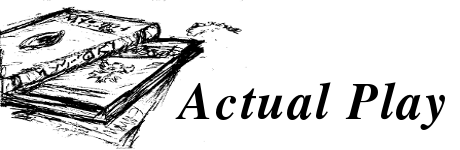
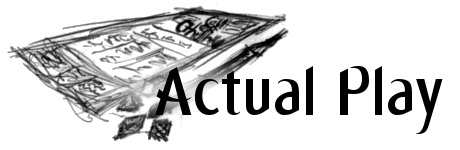
design changes

diff --git a/static/css/main.css b/static/css/main.css
@@ -121,7 +121,7 @@ a:visited, a:active {
 header {
     background: #fff;
     width: 100%;
-    height: 76px;
+    height: 105px;
     position: fixed;
     top: 0;
     left: 0;
@@ -130,10 +130,11 @@ header {
 }
 
 #logo {
-    margin: 0;
     float: left;
-    width: 400px;
-    height: 76px;
+    margin-left: 5px;
+    margin-top: 5px;
+    width: 320px;
+    height: 100px;
     background: url(../images/logo.png) no-repeat center;
     display: block;
 }
@@ -141,7 +142,7 @@ header {
 section {
     position: relative;
     margin: 0 auto 40px;
-    max-width: 980px;
+    max-width: 1020px;
     padding: 20px;
 }
 
@@ -151,7 +152,7 @@ section {
     
 nav {
     float: right;
-    padding: 20px;
+    padding: 40px 0 0 0;
 }
 
 .menu-icon {
@@ -198,14 +199,16 @@ li {
 .section-header {
     font-size: 52px;
     font-weight: bold;
+    vertical-align: top;
 }
 
 /* ==========================================================================
     Content
    ========================================================================== */
 .content {
-    width: 100%;
+    width: 75%;
     padding: 10px;
+    display: inline-block;
 }
 
 .content-list {
@@ -216,9 +219,26 @@ li {
 
 .content-list-item {
     display: inline-block;
-    width: 462px;
+    width: 45%;
     background: #fff;
     vertical-align: top;
+}
+
+.library-stacks {
+    padding: 3px 10px;
+    border-right: 1px solid #000;
+    line-height: 12px;
+}
+
+.sidebar {
+    display: inline-block;
+    width: 20%;
+    vertical-align: top;
+}
+
+.sidebar-list {
+    margin: 0;
+    padding: 0;
 }
 
 /* ==========================================================================
@@ -276,8 +296,9 @@ footer {
 
 .section-heading {
     position: relative;
-    width: 450px;
-    margin: 80px 0 20px;
+    width: 1020px;
+    margin: 170px 0 20px;
+    border-bottom: 3px solid #eee;
 }
 
 .section-heading img {

diff --git a/css/main.css b/css/main.css
@@ -121,7 +121,7 @@ a:visited, a:active {
 header {
     background: #fff;
     width: 100%;
-    height: 76px;
+    height: 105px;
     position: fixed;
     top: 0;
     left: 0;
@@ -130,10 +130,11 @@ header {
 }
 
 #logo {
-    margin: 0;
     float: left;
-    width: 400px;
-    height: 76px;
+    margin-left: 5px;
+    margin-top: 5px;
+    width: 320px;
+    height: 100px;
     background: url(../images/logo.png) no-repeat center;
     display: block;
 }
@@ -151,7 +152,7 @@ section {
     
 nav {
     float: right;
-    padding: 20px;
+    padding: 40px 0 0 0;
 }
 
 .menu-icon {
@@ -209,11 +210,16 @@ li {
 }
 
 .content-list {
-    background: #eee;
+    background: #fff;
+    margin: 0;
+    padding: 5px;
 }
 
 .content-list-item {
-    width: 300px;
+    display: inline-block;
+    width: 462px;
+    background: #fff;
+    vertical-align: top;
 }
 
 /* ==========================================================================
@@ -271,8 +277,9 @@ footer {
 
 .section-heading {
     position: relative;
-    width: 450px;
-    margin: 80px 0 20px;
+    width: 1020px;
+    margin: 170px 0 20px;
+    border-bottom: 3px solid #eee;
 }
 
 .section-heading img {

diff --git a/templates/app/sidebar.html b/templates/app/sidebar.html
@@ -1,4 +1,3 @@
-{% block sidebar %}
 	<div class="sidebar-block">
 		<h2>Search</h2>
 		<ul class="sidebar-list">
@@ -8,5 +7,28 @@
 				</form>
 			</li>
 		</ul>
+		<h2>Recent</h2>
+		<ul class="sidebar-list">
+		{% for item in items_recent %}
+			<li class="sidebar-list-item">
+				<a href="{{ item.get_url }}">{{ item.title }}</a>
+			</li>
+		{% endfor %}
+		</ul>		
+		<h2>Popular</h2>
+		<ul class="sidebar-list">
+		{% for item in items_popular %}
+			<li class="sidebar-list-item">
+				<a href="{{ item.get_url }}">{{ item.title }}</a>
+			</li>
+		{% endfor %}
+		</ul>
+		<h2>Links</h2>
+		<ul class="sidebar-list">
+		{% for link in links %}
+			<li class="sidebar-list-item">
+				<a href="{{ link.get_url }}">{{ link.title }}</a>
+			</li>
+		{% endfor %}
+		</ul>
 	</div>
-{% endblock %}

diff --git a/templates/app/index.html b/templates/app/index.html
@@ -1,10 +1,14 @@
 {% extends "base.html" %}
+{% load staticfiles %}
 
 {% block title %}{{ site.title }}{% endblock %}
 {% block description %}{{ site.description }}{% endblock %}
 
 {% block content %}
 <div class="page">
+	<div class="section-heading">
+		<img src="{% static "images/" %}{{ section.name }}.png" />
+	</div>
 	<div class="content">
 		<ul class="content-list">
 			<li class="content-list-item">
@@ -46,7 +50,7 @@
 		</ul>
 	</div>
 	<div class="sidebar">
-		{% block sidebar %}{% endblock %}
+		{% include 'sidebar.html' %}
 	</div>
 </div>
 {% endblock %}

diff --git a/templates/library/items.html b/templates/library/items.html
@@ -1,11 +1,17 @@
 {% extends 'base.html' %}
+{% load staticfiles %}
 
 {% block title %}{{ stack.name }}{% endblock %}
 {% block description %}{{ stack.tagline }}{% endblock %}
 
 {% block content %}
+<div class="section-heading">
+	<img src="{% static "images/" %}{{ section.name }}.png" />
+</div>
 <div class="content">
-	<h1>{{ stack.name }}</h1>
+	{% for stack in stacks %}
+		<span class="library-stacks"><a href="/library/{{ stack.name|lower }}">{{ stack.name }}</a></span>
+	{% endfor %}
 	{% for item in items %}
 		<article>
 			<div class="center">

diff --git a/templates/library/item.html b/templates/library/item.html
@@ -1,10 +1,17 @@
 {% extends 'base.html' %}
+{% load staticfiles %}
 
 {% block title %}{{ item.title }}{% endblock %}
 {% block description %}{{ item.descdription }}{% endblock %}
 
 {% block content %}
+<div class="section-heading">
+	<img src="{% static "images/" %}{{ section.name }}.png" />
+</div>
 <div class="content">
+	{% for stack in stacks %}
+		<span class="library-stacks"><a href="/library/{{ stack.name|lower }}">{{ stack.name }}</a></span>
+	{% endfor %}
 	<article>
 		<div class="center">
 			<h2>{{ item.name }}</h2>

diff --git a/templates/library/index.html b/templates/library/index.html
@@ -1,11 +1,14 @@
 {% extends 'base.html' %}
+{% load staticfiles %}
 
 {% block title %}The Library{% endblock %}
 {% block description %}The cornerstone of any good investication is research, and where better to research than the library.{% endblock %}
 
 {% block content %}
+<div class="section-heading">
+	<img src="{% static "images/" %}{{ section.name }}.png" />
+</div>
 <div class="content">
-	<h1>The Stacks</h1>
 	<ul class="content-list">
 	{% for stack in stacks %}
 		<li class="content-list-item">

diff --git a/templates/blog/index.html b/templates/blog/index.html
@@ -1,9 +1,12 @@
 {% extends "base.html" %}
-
+{% load staticfiles %}
 {% block title %}Non Human User Blog{% endblock %}
 {% block description %}Stories and opinions about Cthulhu Mythos related subjects and the Call of Cthulhu role playing game{% endblock %}
 
 {% block content %}
+<div class="section-heading">
+	<img src="{% static "images/" %}{{ section.name }}.png" />
+</div>
 {% for entry in blog %}
 <div class="content">
 	<article>

diff --git a/templates/blog/stories.html b/templates/blog/stories.html
@@ -1,10 +1,14 @@
 {% extends 'base.html' %}
+{% load staticfiles %}
 
 {% block title %}{{ category.name }}{% endblock %}
 {% block description %}{{ category.description }}{% endblock %}
 
 {% block content %}
 {% for story in stories %}
+<div class="section-heading">
+	<img src="{% static "images/" %}{{ section.name }}.png" />
+</div>
 <div class="content">
 	<article>
 		<div class="center">

diff --git a/templates/actual_play/game.html b/templates/actual_play/game.html
@@ -1,9 +1,13 @@
 {% extends 'base.html' %}
+{% load staticfiles %}
 
 {% block title %}{{ game.name }}{% endblock %}
 {% block description %}{{ game.description }}{% endblock %}
 
 {% block content %}
+<div class="section-heading">
+	<img src="{% static "images/" %}{{ section.name }}.png" />
+</div>
 <section class="content">
 	<article class="row1">
 		<div class="center">

diff --git a/templates/blog/articles.html b/templates/blog/articles.html
@@ -1,9 +1,13 @@
 {% extends 'base.html' %}
+{% load staticfiles %}
 
 {% block title %}{{ category.name }}{% endblock %}
 {% block description %}{{ category.description }}{% endblock %}
 
 {% block content %}
+<div class="section-heading">
+	<img src="{% static "images/" %}{{ section.name }}.png" />
+</div>
 <div class="content">
 	{% for article in articles %}
 		<article>

diff --git a/templates/actual_play/index.html b/templates/actual_play/index.html
@@ -1,9 +1,13 @@
 {% extends 'base.html' %}
+{% load staticfiles %}
 
 {% block title %}Actual Plays{% endblock %}
 {% block description %}Live roleplaying sessions{% endblock %}
 
 {% block content %}
+<div class="section-heading">
+	<img src="{% static "images/" %}{{ section.name }}.png" />
+</div>
 <div class="content">
 	<h1>Game Groups</h1>
 	<ul class="content-list">
